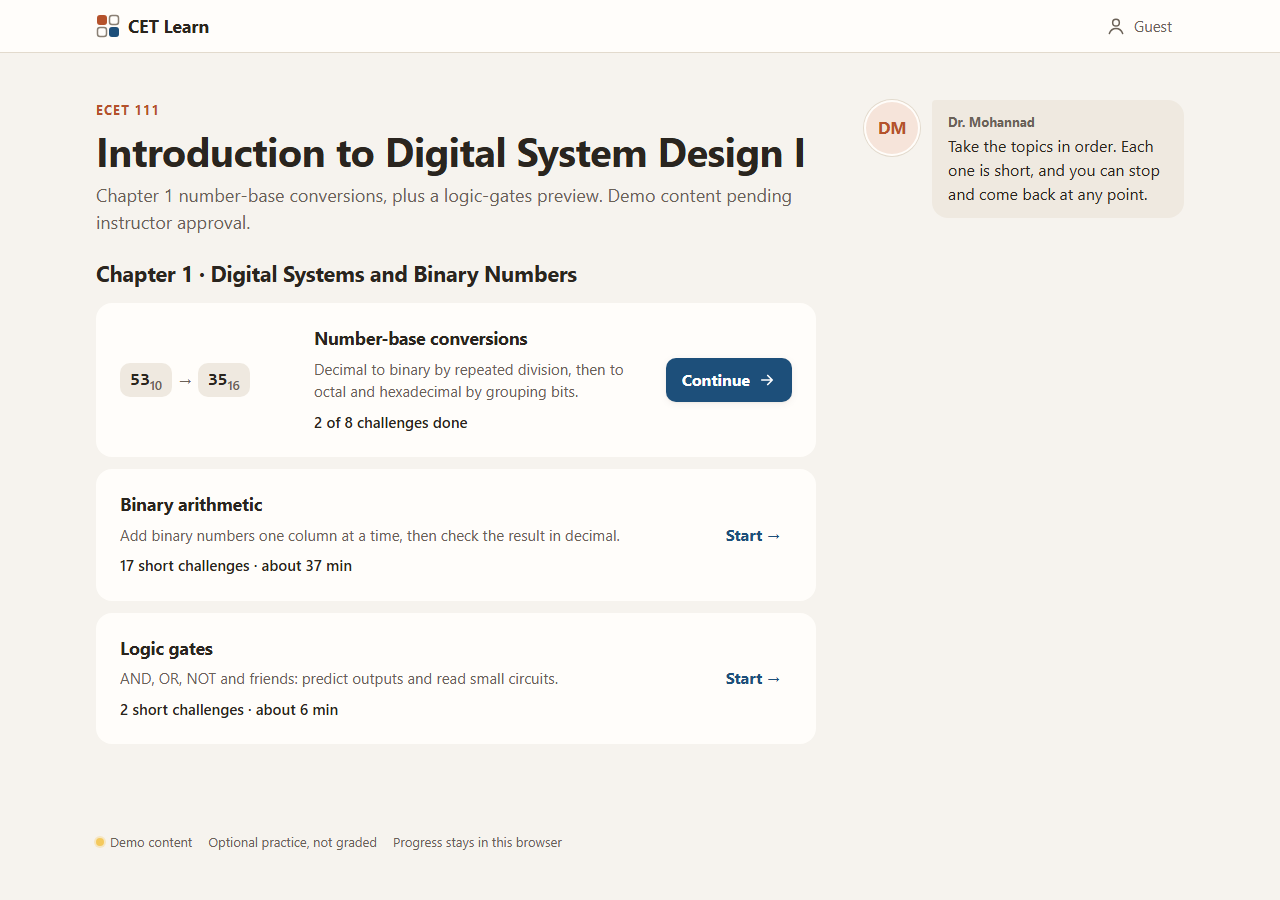
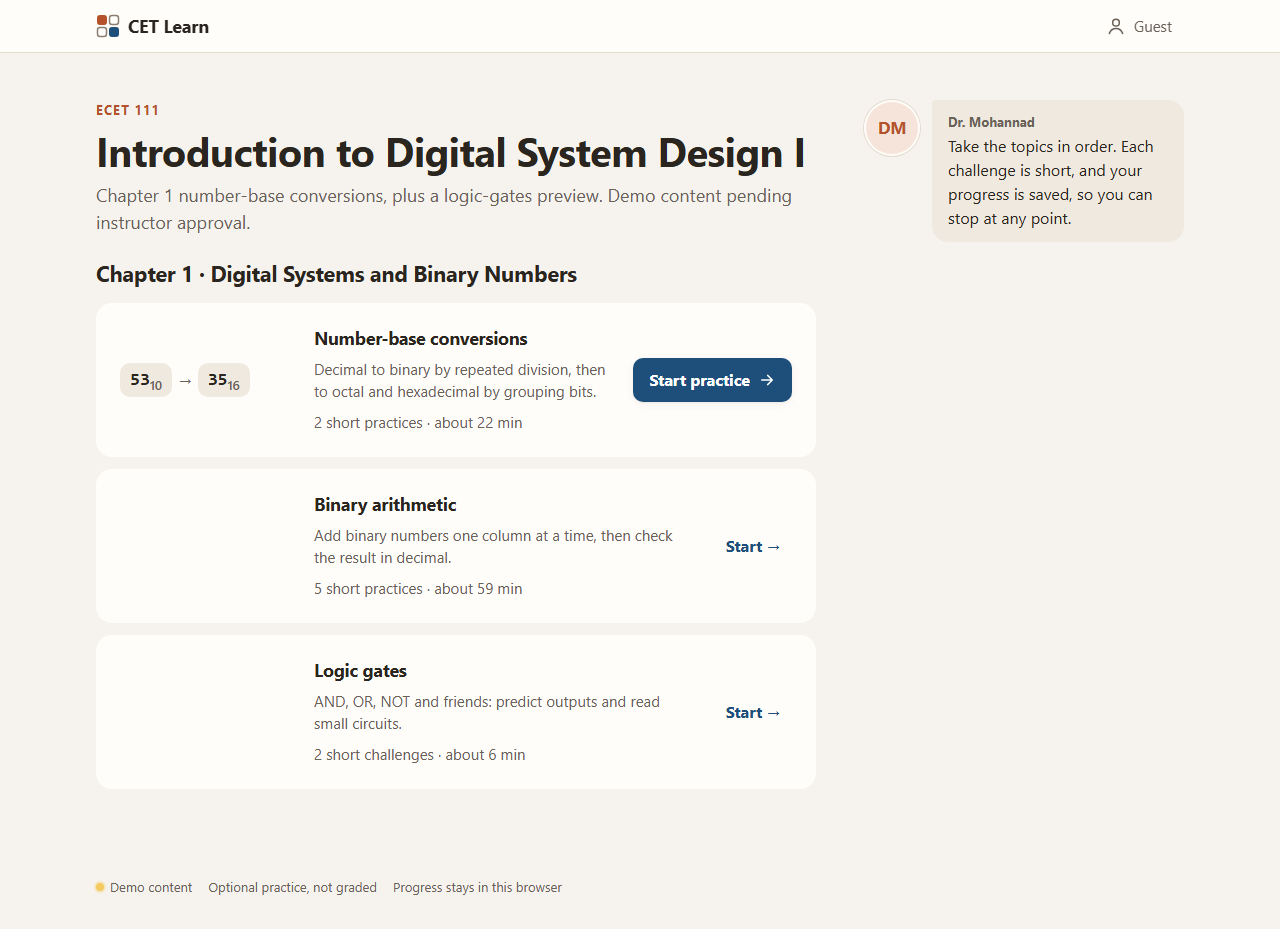
fix(shell): course page review — aligned rows, 44 px title target, muted effort cue, full-width button on phones, practices count, tutor wording

diff --git a/src/shell/r1/CourseTopics.tsx b/src/shell/r1/CourseTopics.tsx
@@ -13,15 +13,18 @@ import styles from "./r1.module.css";
 const noSubscription = () => () => {};
 
 /** Topic-level status line: nothing about single practices (that is the topic page's job). */
-export function topicStatus(topic: Topic, progress: Pick<OfferingProgress, "activities">): { text: string; completed: boolean } {
+export function topicStatus(topic: Topic, progress: Pick<OfferingProgress, "activities">): { text: string; completed: boolean; started: boolean } {
   const total = topic.activities.reduce((n, a) => n + a.questions.length, 0);
   const records = topic.activities.map((a) => ({ a, r: progress.activities[a.id] }));
-  if (records.every(({ r }) => r?.status === "completed")) return { text: "Completed", completed: true };
+  if (records.every(({ r }) => r?.status === "completed")) return { text: "Completed", completed: true, started: true };
   if (records.some(({ r }) => r && r.status !== "new")) {
     const done = records.reduce((n, { a, r }) => n + (r?.status === "completed" ? a.questions.length : (r?.completedQuestions?.length ?? 0)), 0);
-    return { text: `${done} of ${total} challenges done`, completed: false };
+    return { text: `${done} of ${total} challenges done`, completed: false, started: true };
   }
-  return { text: effortCue(total, topic.activities.reduce((n, a) => n + a.minutes, 0)), completed: false };
+  // Not started: a topic of several practices is not one long sitting, so count practices (Pedagogy, #172).
+  const minutes = topic.activities.reduce((n, a) => n + a.minutes, 0);
+  const text = topic.activities.length > 1 ? `${topic.activities.length} short practices · about ${minutes} min` : effortCue(total, minutes);
+  return { text, completed: false, started: false };
 }
 
 /** The first and last tile of a topic's preview chain, small enough for a row; nothing if it is not a chain. */
@@ -66,8 +69,10 @@ export function CourseTopics({ course }: { course: Course }) {
                   href={topicHref(course, topic)}
                   route={topic.summary}
                   status={status.text}
+                  statusMuted={!status.started}
                   completed={status.completed}
                   visual={preview ? <PreviewBoard preview={preview} size="sm" bare /> : undefined}
+                  reserveVisual
                   action={isNext ? next.primary : quietAction(topicRowAction(course, topic, progress))}
                   emphasis={isNext ? "primary" : "quiet"}
                 />

diff --git a/src/shell/r1/Chrome.tsx b/src/shell/r1/Chrome.tsx
@@ -56,10 +56,14 @@ export interface TopicRowProps {
   route?: string;
   /** Status or effort line, e.g. "2 of 4 challenges done" or "3 short challenges · about 6 min". */
   status?: string;
+  /** Muted, normal weight for an effort cue; the default (semibold) is for progress. */
+  statusMuted?: boolean;
   /** True for a finished topic: the status gets a check mark as well as its text. */
   completed?: boolean;
   /** Small visual on the left (a `PreviewBoard size="sm"`, a gate glyph…); hidden on phones. */
   visual?: ReactNode;
+  /** Keep the visual column even when this row has no visual, so titles line up down the list. */
+  reserveVisual?: boolean;
   action: ActionLink;
   /** Filled button for the next topic to do; quiet text action for the rest. */
   emphasis?: "primary" | "quiet";
@@ -69,10 +73,14 @@ export interface TopicRowProps {
  * One topic on the course page: a plain surface with a visual, the title and route, a status
  * line and one button. The row itself is never the click target.
  */
-export function TopicRow({ title, href, route, status, completed = false, visual, action, emphasis = "quiet" }: TopicRowProps) {
+export function TopicRow({ title, href, route, status, statusMuted = false, completed = false, visual, reserveVisual = false, action, emphasis = "quiet" }: TopicRowProps) {
   return (
     <li className={styles.topicRow}>
-      {visual && <div className={styles.topicVisual}>{visual}</div>}
+      {(visual || reserveVisual) && (
+        <div className={styles.topicVisual} aria-hidden={visual ? undefined : true}>
+          {visual}
+        </div>
+      )}
       <div className={styles.topicText}>
         <h3 className={styles.topicTitle}>
           {href ? (
@@ -85,7 +93,7 @@ export function TopicRow({ title, href, route, status, completed = false, visual
         </h3>
         {route && <p className={styles.topicRoute}>{route}</p>}
         {status && (
-          <p className={`${styles.topicStatus} ${completed ? styles.topicDone : ""}`}>
+          <p className={`${styles.topicStatus} ${completed ? styles.topicDone : statusMuted ? styles.statusMuted : ""}`}>
             {completed && (
               <svg viewBox="0 0 24 24" fill="none" stroke="currentColor" strokeWidth="2.4" strokeLinecap="round" strokeLinejoin="round" aria-hidden="true" className={styles.check}>
                 <path d="M5 12.5l4.5 4.5L19 7.5" />

diff --git a/src/shell/r1/CourseTopics.test.tsx b/src/shell/r1/CourseTopics.test.tsx
@@ -23,18 +23,19 @@ describe("topicStatus", () => {
   const minutes = first.activities.reduce((n, a) => n + a.minutes, 0);
 
   it("not started: the effort cue for the whole topic, from authored values", () => {
-    expect(topicStatus(first, { activities: {} })).toEqual({ text: `${total} short challenges · about ${minutes} min`, completed: false });
+    const text = first.activities.length > 1 ? `${first.activities.length} short practices · about ${minutes} min` : `${total} short challenges · about ${minutes} min`;
+    expect(topicStatus(first, { activities: {} })).toEqual({ text, completed: false, started: false });
   });
 
   it("in progress: challenges done across the topic", () => {
     const a = first.activities[0];
     const p = completeQuestion(startActivity({ version: 1, offeringId: "x", activities: {}, concepts: {} }, a.id), a.id, a.questions[0].id);
-    expect(topicStatus(first, p)).toEqual({ text: `1 of ${total} challenges done`, completed: false });
+    expect(topicStatus(first, p)).toEqual({ text: `1 of ${total} challenges done`, completed: false, started: true });
   });
 
   it("completed only when every practice of the topic is", () => {
     const all = Object.fromEntries(first.activities.map((a) => [a.id, { status: "completed" as const, attempts: 1, hintsUsed: 0, independent: true, lastAt: 1 }]));
-    expect(topicStatus(first, { activities: all })).toEqual({ text: "Completed", completed: true });
+    expect(topicStatus(first, { activities: all })).toEqual({ text: "Completed", completed: true, started: true });
   });
 });
 

diff --git a/src/shell/r1/r1.module.css b/src/shell/r1/r1.module.css
@@ -671,6 +671,10 @@
 }
 
 .titleLink {
+  /* a 44 px hit area on the title line only; the row itself is still not a target */
+  display: inline-block;
+  padding-block: 11px;
+  margin-block: -11px;
   color: inherit;
   text-decoration: none;
 }
@@ -678,4 +682,14 @@
 .titleLink:hover {
   text-decoration: underline;
   text-underline-offset: 3px;
+}
+
+/* on phones the row's filled button takes the full width; quiet actions stay inline */
+@media (max-width: 640px) {
+  .topicAction:has([data-primary-action]) {
+    flex-basis: 100%;
+  }
+  .topicAction .buttonRow {
+    width: 100%;
+  }
 }

diff --git a/src/tutor/messages/en.ts b/src/tutor/messages/en.ts
@@ -5,7 +5,7 @@
 export const en = {
   // generic flow
   // pages outside the stage (R1 redesign): set expectations, never method hints
-  "page.course.intro": "Take the topics in order. Each one is short, and you can stop and come back at any point.",
+  "page.course.intro": "Take the topics in order. Each challenge is short, and your progress is saved, so you can stop at any point.",
   "page.topic.intro": "We'll do this one step at a time. Try first; I'm here if you need me.",
 
   "open": "Give it a try. I will step in only if you want me to.",
